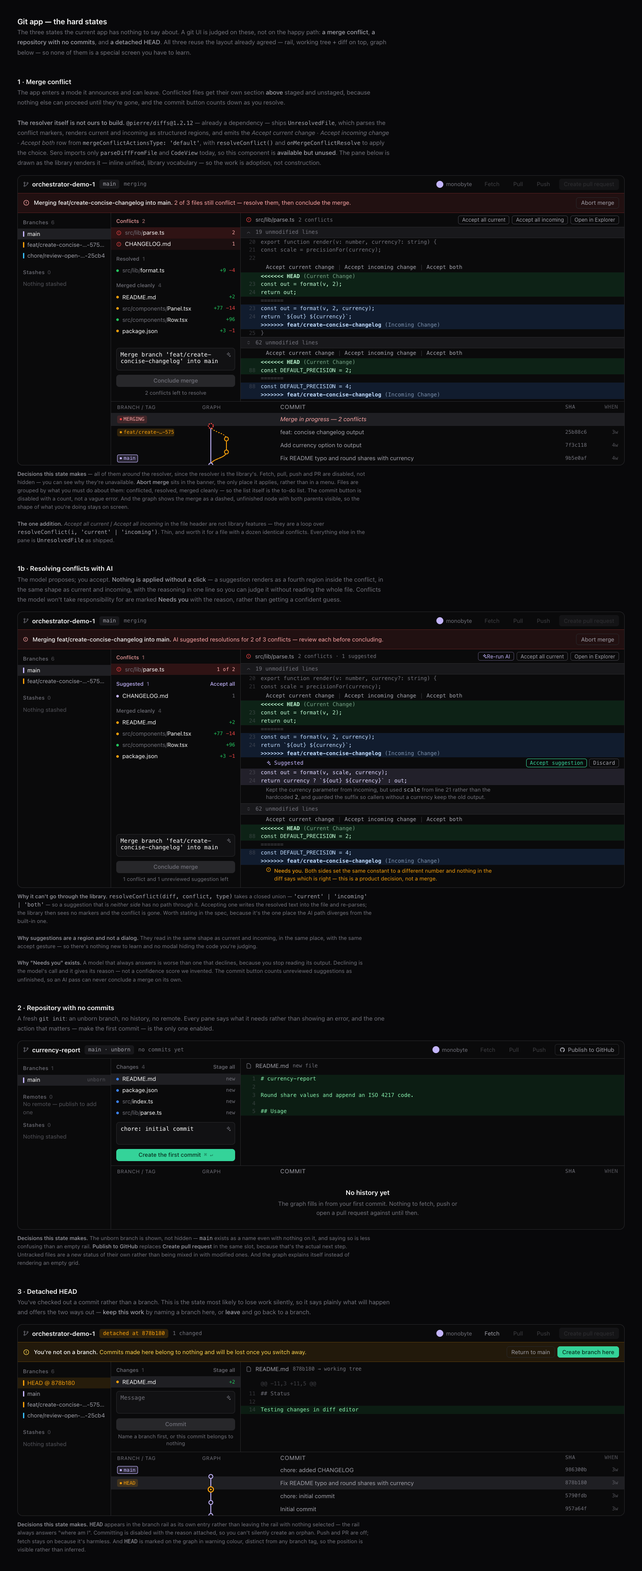
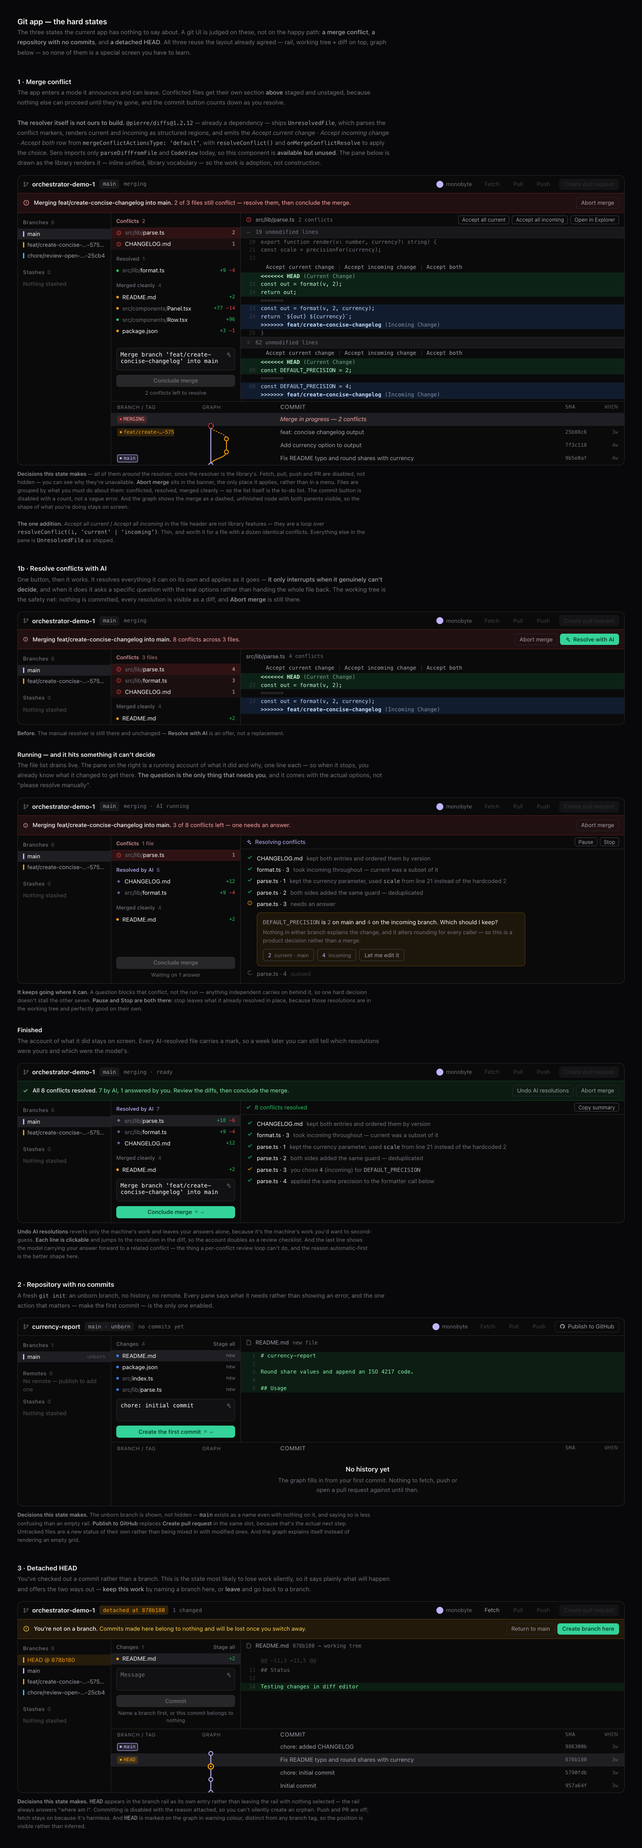
refactor(prototype): AI conflict resolution runs automatically, asks only when stuck (#302)

Changed region(s): [[0.0311, 0.0, 0.9946, 0.9983], [0.8703, 0.9359, 0.9014, 0.9671]]

diff --git a/docs/prototypes/git-ux/git-states.html b/docs/prototypes/git-ux/git-states.html
@@ -151,6 +151,36 @@ svg{flex:0 0 auto}
 .mini.ai:hover{background:color-mix(in srgb,var(--brand-secondary) 14%,transparent)}
 .mini.go{border-color:var(--brand-primary);color:var(--brand-primary)}
 .dot.s{background:var(--brand-secondary)}
+.runwrap{flex:1;min-width:0;display:flex;flex-direction:column;border-left:1px solid var(--border-subtle)}
+.runbar{height:32px;display:flex;align-items:center;gap:8px;padding:0 12px;flex:0 0 auto;
+  font-size:0.83rem;color:var(--brand-secondary);border-bottom:1px solid var(--border-subtle)}
+.runbar .r{margin-left:auto;display:flex;gap:6px}
+.log{padding:8px 0;font-size:0.83rem}
+.logrow{display:flex;align-items:flex-start;gap:9px;padding:4px 14px;line-height:1.15rem}
+.logrow .ic{width:14px;flex:0 0 14px;display:flex;justify-content:center;padding-top:1px}
+.logrow .what{color:var(--text-primary);flex:0 0 auto}
+.logrow .why{color:var(--text-muted);min-width:0}
+.logrow.done .ic{color:var(--status-success)}
+.logrow.ask .ic{color:var(--status-warning)}
+.logrow.pending{opacity:.45}
+.qbox{margin:6px 14px 4px 37px;padding:11px 13px;border-radius:9px;
+  background:color-mix(in srgb,var(--status-warning) 8%,transparent);
+  border:1px solid color-mix(in srgb,var(--status-warning) 26%,transparent);max-width:74ch}
+.qbox .qt{font-size:0.85rem;line-height:1.3rem;color:var(--text-primary)}
+.qbox .qm{font-size:0.8rem;line-height:1.15rem;color:var(--text-muted);margin-top:5px;font-family:-apple-system,system-ui,sans-serif}
+.qopts{display:flex;gap:7px;margin-top:10px;flex-wrap:wrap}
+.qopt{display:inline-flex;align-items:center;gap:7px;height:28px;padding:0 11px;border-radius:7px;
+  border:1px solid var(--border-default);font-size:0.82rem;color:var(--text-primary);cursor:pointer}
+.qopt:hover{background:var(--bg-elevated)}
+.qopt .code{font:0.78rem var(--mono);color:var(--brand-secondary)}
+.qopt .from{font-size:0.76rem;color:var(--text-muted)}
+.qopt.plain{color:var(--text-secondary)}
+.spin{animation:spin 1s linear infinite;transform-origin:50% 50%}
+@keyframes spin{to{transform:rotate(360deg)}}
+.banner.ok{background:color-mix(in srgb,var(--status-success) 9%,transparent);
+  border-top:1px solid color-mix(in srgb,var(--status-success) 24%,transparent);
+  border-bottom:1px solid color-mix(in srgb,var(--status-success) 24%,transparent);color:#86efac}
+.sparkmark{color:var(--brand-secondary);display:flex;flex:0 0 auto}
 .rest{flex:1;min-height:0;overflow:hidden}
 
 /* graph strip */
@@ -352,12 +382,12 @@ file with a dozen identical conflicts. Everything else in the pane is <code>Unre
 </p>
 
 
-<h2>1b · Resolving conflicts with AI</h2>
+<h2>1b · Resolve conflicts with AI</h2>
 <p class="note">
-The model proposes; you accept. <b>Nothing is applied without a click</b> — a suggestion renders as a fourth
-region inside the conflict, in the same shape as current and incoming, with the reasoning in one line so you can
-judge it without reading the whole file. Conflicts the model won't take responsibility for are marked
-<b>Needs you</b> with the reason, rather than getting a confident guess.
+One button, then it works. It resolves everything it can on its own and applies as it goes —
+<b>it only interrupts when it genuinely can't decide</b>, and when it does it asks a specific question with the
+real options rather than handing the whole file back. The working tree is the safety net: nothing is committed,
+every resolution is visible as a diff, and <b>Abort merge</b> is still there.
 </p>
 
 <div class="app">
@@ -369,13 +399,14 @@ judge it without reading the whole file. Conflicts the model won't take responsi
     <span class="tb off">Fetch</span><span class="tb off">Pull</span><span class="tb off">Push</span>
     <span class="tb off" style="background:var(--bg-muted);color:var(--text-muted)">Create pull request</span>
   </div>
-
   <div class="banner conflict">
     <svg width="12" height="12" viewBox="0 0 24 24" fill="none" stroke="currentColor" stroke-width="2.2" stroke-linecap="round"><path d="M12 8v5M12 16.5h.01"/><circle cx="12" cy="12" r="9"/></svg>
-    <span><span class="t">Merging feat/create-concise-changelog into main.</span> AI suggested resolutions for 2 of 3 conflicts — review each before concluding.</span>
-    <div class="r"><span class="tb line">Abort merge</span></div>
+    <span><span class="t">Merging feat/create-concise-changelog into main.</span> 8 conflicts across 3 files.</span>
+    <div class="r">
+      <span class="tb line">Abort merge</span>
+      <span class="tb solid"><svg width="13" height="13" viewBox="0 0 24 24" fill="none" stroke="currentColor" stroke-width="1.8" stroke-linecap="round" stroke-linejoin="round"><path d="M12 3l1.9 4.6L18.5 9.5 13.9 11.4 12 16l-1.9-4.6L5.5 9.5l4.6-1.9z"/><path d="M18.5 15.5l.8 2 2 .8-2 .8-.8 2-.8-2-2-.8 2-.8z"/></svg> Resolve with AI</span>
+    </div>
   </div>
-
   <div class="body">
     <div class="rail">
       <div class="grp">Branches <span class="n">6</span></div>
@@ -385,90 +416,183 @@ judge it without reading the whole file. Conflicts the model won't take responsi
       <div class="empty">Nothing stashed</div>
     </div>
     <div class="vhair"></div>
-
     <div class="main">
-      <div class="detail" style="height:392px">
+      <div class="detail" style="height:196px">
         <div class="files">
-          <div class="sec bad">Conflicts <span class="n">1</span></div>
-          <div class="frow bad on"><span class="warnico"><svg width="12" height="12" viewBox="0 0 24 24" fill="none" stroke="currentColor" stroke-width="2.2" stroke-linecap="round"><path d="M12 8v5M12 16.5h.01"/><circle cx="12" cy="12" r="9"/></svg></span><span class="fn"><span class="dir">src/lib/</span>parse.ts</span><span class="st bad">1 of 2</span></div>
-
-          <div class="sec" style="padding-top:11px;color:var(--brand-secondary)">Suggested <span class="n">1</span><span class="act" style="color:var(--brand-secondary)">Accept all</span></div>
-          <div class="frow"><span class="dot s"></span><span class="fn">CHANGELOG.md</span><span class="st">1</span></div>
-
+          <div class="sec bad">Conflicts <span class="n">3 files</span></div>
+          <div class="frow bad on"><span class="warnico"><svg width="12" height="12" viewBox="0 0 24 24" fill="none" stroke="currentColor" stroke-width="2.2" stroke-linecap="round"><path d="M12 8v5M12 16.5h.01"/><circle cx="12" cy="12" r="9"/></svg></span><span class="fn"><span class="dir">src/lib/</span>parse.ts</span><span class="st bad">4</span></div>
+          <div class="frow bad"><span class="warnico"><svg width="12" height="12" viewBox="0 0 24 24" fill="none" stroke="currentColor" stroke-width="2.2" stroke-linecap="round"><path d="M12 8v5M12 16.5h.01"/><circle cx="12" cy="12" r="9"/></svg></span><span class="fn"><span class="dir">src/lib/</span>format.ts</span><span class="st bad">3</span></div>
+          <div class="frow bad"><span class="warnico"><svg width="12" height="12" viewBox="0 0 24 24" fill="none" stroke="currentColor" stroke-width="2.2" stroke-linecap="round"><path d="M12 8v5M12 16.5h.01"/><circle cx="12" cy="12" r="9"/></svg></span><span class="fn">CHANGELOG.md</span><span class="st bad">1</span></div>
           <div class="sec" style="padding-top:11px">Merged cleanly <span class="n">4</span></div>
           <div class="frow"><span class="dot m"></span><span class="fn">README.md</span><span class="st"><span class="p">+2</span></span></div>
-          <div class="frow"><span class="dot m"></span><span class="fn"><span class="dir">src/components/</span>Panel.tsx</span><span class="st"><span class="p">+77</span> <span class="m">−14</span></span></div>
-          <div class="frow"><span class="dot a"></span><span class="fn"><span class="dir">src/components/</span>Row.tsx</span><span class="st"><span class="p">+96</span></span></div>
-          <div class="frow"><span class="dot m"></span><span class="fn">package.json</span><span class="st"><span class="p">+3</span> <span class="m">−1</span></span></div>
-
-          <div class="cbox">
-            <div class="mw">
-              <textarea class="mi">Merge branch 'feat/create-concise-changelog' into main</textarea>
-              <span class="msgai"><svg width="12" height="12" viewBox="0 0 24 24" fill="none" stroke="currentColor" stroke-width="1.8" stroke-linecap="round" stroke-linejoin="round"><path d="M12 3l1.9 4.6L18.5 9.5 13.9 11.4 12 16l-1.9-4.6L5.5 9.5l4.6-1.9z"/><path d="M18.5 15.5l.8 2 2 .8-2 .8-.8 2-.8-2-2-.8 2-.8z"/></svg></span>
-            </div>
-            <div class="cbtn off">Conclude merge</div>
-            <div class="hint">1 conflict and 1 unreviewed suggestion left</div>
-          </div>
         </div>
-
         <div class="diff">
-          <div class="dbar">
-            <span class="warnico"><svg width="12" height="12" viewBox="0 0 24 24" fill="none" stroke="currentColor" stroke-width="2.2" stroke-linecap="round"><path d="M12 8v5M12 16.5h.01"/><circle cx="12" cy="12" r="9"/></svg></span>
-            src/lib/parse.ts <span class="mut">2 conflicts · 1 suggested</span>
-            <div class="r"><span class="mini ai"><svg width="12" height="12" viewBox="0 0 24 24" fill="none" stroke="currentColor" stroke-width="1.8" stroke-linecap="round" stroke-linejoin="round"><path d="M12 3l1.9 4.6L18.5 9.5 13.9 11.4 12 16l-1.9-4.6L5.5 9.5l4.6-1.9z"/><path d="M18.5 15.5l.8 2 2 .8-2 .8-.8 2-.8-2-2-.8 2-.8z"/></svg> Re-run AI</span><span class="mini">Accept all current</span><span class="mini">Open in Explorer</span></div>
-          </div>
-
+          <div class="dbar">src/lib/parse.ts <span class="mut">4 conflicts</span></div>
           <div class="dbody" style="padding-top:0">
-            <div class="collapsed"><svg width="12" height="12" viewBox="0 0 24 24" fill="none" stroke="currentColor" stroke-width="2" stroke-linecap="round"><path d="M6 15l6-6 6 6"/></svg>19 unmodified lines</div>
-            <div class="dl"><span class="ln">20</span><span class="tx">export function render(v: number, currency?: string) {</span></div>
-            <div class="dl"><span class="ln">21</span><span class="tx">  const scale = precisionFor(currency);</span></div>
-
             <div class="actionrow"><a>Accept current change</a><span class="sep">|</span><a>Accept incoming change</a><span class="sep">|</span><a>Accept both</a></div>
             <div class="dl curr mark"><span class="ln"></span><span class="tx">&lt;&lt;&lt;&lt;&lt;&lt;&lt; HEAD<span class="who">(Current Change)</span></span></div>
             <div class="dl curr"><span class="ln">23</span><span class="tx">  const out = format(v, 2);</span></div>
-            <div class="dl curr"><span class="ln">24</span><span class="tx">  return out;</span></div>
             <div class="dl sepmark"><span class="ln"></span><span class="tx">=======</span></div>
             <div class="dl inc"><span class="ln">23</span><span class="tx">  const out = format(v, 2, currency);</span></div>
-            <div class="dl inc"><span class="ln">24</span><span class="tx">  return `${out} ${currency}`;</span></div>
             <div class="dl inc mark"><span class="ln"></span><span class="tx">&gt;&gt;&gt;&gt;&gt;&gt;&gt; feat/create-concise-changelog<span class="who">(Incoming Change)</span></span></div>
-
-            <div class="sugghead"><svg width="12" height="12" viewBox="0 0 24 24" fill="none" stroke="currentColor" stroke-width="1.8" stroke-linecap="round" stroke-linejoin="round"><path d="M12 3l1.9 4.6L18.5 9.5 13.9 11.4 12 16l-1.9-4.6L5.5 9.5l4.6-1.9z"/><path d="M18.5 15.5l.8 2 2 .8-2 .8-.8 2-.8-2-2-.8 2-.8z"/></svg> Suggested
-              <div class="r"><span class="mini go">Accept suggestion</span><span class="mini">Discard</span></div>
-            </div>
-            <div class="dl sugg"><span class="ln">23</span><span class="tx">  const out = format(v, scale, currency);</span></div>
-            <div class="dl sugg"><span class="ln">24</span><span class="tx">  return currency ? `${out} ${currency}` : out;</span></div>
-            <div class="rationale">Kept the currency parameter from incoming, but used <code>scale</code> from line 21 rather than the hardcoded <code>2</code>, and guarded the suffix so callers without a currency keep the old output.</div>
-
-            <div class="collapsed"><svg width="12" height="12" viewBox="0 0 24 24" fill="none" stroke="currentColor" stroke-width="2" stroke-linecap="round"><path d="M8 9l4-4 4 4M8 15l4 4 4-4"/></svg>62 unmodified lines</div>
-
-            <div class="actionrow"><a>Accept current change</a><span class="sep">|</span><a>Accept incoming change</a><span class="sep">|</span><a>Accept both</a></div>
-            <div class="dl curr mark"><span class="ln"></span><span class="tx">&lt;&lt;&lt;&lt;&lt;&lt;&lt; HEAD<span class="who">(Current Change)</span></span></div>
-            <div class="dl curr"><span class="ln">88</span><span class="tx">const DEFAULT_PRECISION = 2;</span></div>
-            <div class="dl sepmark"><span class="ln"></span><span class="tx">=======</span></div>
-            <div class="dl inc"><span class="ln">88</span><span class="tx">const DEFAULT_PRECISION = 4;</span></div>
-            <div class="dl inc mark"><span class="ln"></span><span class="tx">&gt;&gt;&gt;&gt;&gt;&gt;&gt; feat/create-concise-changelog<span class="who">(Incoming Change)</span></span></div>
-            <div class="needsyou"><svg width="12" height="12" viewBox="0 0 24 24" fill="none" stroke="currentColor" stroke-width="2.2" stroke-linecap="round"><path d="M12 8v5M12 16.5h.01"/><circle cx="12" cy="12" r="9"/></svg> <span><b style="color:var(--status-warning)">Needs you.</b> Both sides set the same constant to a different number and nothing in the diff says which is right — this is a product decision, not a merge.</span></div>
           </div>
-          <div class="rest"></div>
         </div>
       </div>
     </div>
   </div>
 </div>
+<p class="spec"><b>Before.</b> The manual resolver is still there and unchanged — <b>Resolve with AI</b> is an
+offer, not a replacement.</p>
 
+<h3 style="font-size:0.88rem;font-weight:600;margin:30px 0 4px">Running — and it hits something it can't decide</h3>
+<p class="note">
+The file list drains live. The pane on the right is a running account of what it did and why, one line each — so
+when it stops, you already know what it changed to get there. <b>The question is the only thing that needs you</b>,
+and it comes with the actual options, not "please resolve manually".
+</p>
+
+<div class="app">
+  <div class="topbar">
+    <div class="repo"><svg width="14" height="14" viewBox="0 0 24 24" fill="none" stroke="var(--text-muted)" stroke-width="2" stroke-linecap="round"><circle cx="6" cy="6" r="2.5"/><circle cx="6" cy="18" r="2.5"/><path d="M6 8.5v7"/><circle cx="18" cy="7" r="2.5"/><path d="M18 9.5c0 5-6 3.5-6 8.5"/></svg> orchestrator-demo-1</div>
+    <span class="bchip">main</span><span class="sync">merging · AI running</span>
+    <span style="flex:1"></span>
+    <span class="ghchip"><span class="av"></span>monobyte</span>
+    <span class="tb off">Fetch</span><span class="tb off">Pull</span><span class="tb off">Push</span>
+    <span class="tb off" style="background:var(--bg-muted);color:var(--text-muted)">Create pull request</span>
+  </div>
+  <div class="banner conflict">
+    <svg width="12" height="12" viewBox="0 0 24 24" fill="none" stroke="currentColor" stroke-width="2.2" stroke-linecap="round"><path d="M12 8v5M12 16.5h.01"/><circle cx="12" cy="12" r="9"/></svg>
+    <span><span class="t">Merging feat/create-concise-changelog into main.</span> 3 of 8 conflicts left — one needs an answer.</span>
+    <div class="r"><span class="tb line">Abort merge</span></div>
+  </div>
+  <div class="body">
+    <div class="rail">
+      <div class="grp">Branches <span class="n">6</span></div>
+      <div class="rrow on"><span class="sw" style="background:var(--l0)"></span><span class="nm">main</span></div>
+      <div class="rrow"><span class="sw" style="background:var(--l1)"></span><span class="nm">feat/create-concise-…-57596</span></div>
+      <div class="grp" style="padding-top:16px">Stashes <span class="n">0</span></div>
+      <div class="empty">Nothing stashed</div>
+    </div>
+    <div class="vhair"></div>
+    <div class="main">
+      <div class="detail" style="height:352px">
+        <div class="files">
+          <div class="sec bad">Conflicts <span class="n">1 file</span></div>
+          <div class="frow bad on"><span class="warnico"><svg width="12" height="12" viewBox="0 0 24 24" fill="none" stroke="currentColor" stroke-width="2.2" stroke-linecap="round"><path d="M12 8v5M12 16.5h.01"/><circle cx="12" cy="12" r="9"/></svg></span><span class="fn"><span class="dir">src/lib/</span>parse.ts</span><span class="st bad">1</span></div>
+          <div class="sec" style="padding-top:11px;color:var(--brand-secondary)">Resolved by AI <span class="n">5</span></div>
+          <div class="frow"><span class="sparkmark"><svg width="11" height="11" viewBox="0 0 24 24" fill="none" stroke="currentColor" stroke-width="1.8" stroke-linecap="round" stroke-linejoin="round"><path d="M12 3l1.9 4.6L18.5 9.5 13.9 11.4 12 16l-1.9-4.6L5.5 9.5l4.6-1.9z"/></svg></span><span class="fn">CHANGELOG.md</span><span class="st"><span class="p">+12</span></span></div>
+          <div class="frow"><span class="sparkmark"><svg width="11" height="11" viewBox="0 0 24 24" fill="none" stroke="currentColor" stroke-width="1.8" stroke-linecap="round" stroke-linejoin="round"><path d="M12 3l1.9 4.6L18.5 9.5 13.9 11.4 12 16l-1.9-4.6L5.5 9.5l4.6-1.9z"/></svg></span><span class="fn"><span class="dir">src/lib/</span>format.ts</span><span class="st"><span class="p">+9</span> <span class="m">−4</span></span></div>
+          <div class="sec" style="padding-top:11px">Merged cleanly <span class="n">4</span></div>
+          <div class="frow"><span class="dot m"></span><span class="fn">README.md</span><span class="st"><span class="p">+2</span></span></div>
+          <div class="cbox">
+            <div class="cbtn off">Conclude merge</div>
+            <div class="hint">Waiting on 1 answer</div>
+          </div>
+        </div>
+
+        <div class="runwrap">
+          <div class="runbar"><svg width="13" height="13" viewBox="0 0 24 24" fill="none" stroke="currentColor" stroke-width="1.8" stroke-linecap="round" stroke-linejoin="round"><path d="M12 3l1.9 4.6L18.5 9.5 13.9 11.4 12 16l-1.9-4.6L5.5 9.5l4.6-1.9z"/><path d="M18.5 15.5l.8 2 2 .8-2 .8-.8 2-.8-2-2-.8 2-.8z"/></svg> Resolving conflicts
+            <div class="r"><span class="mini">Pause</span><span class="mini">Stop</span></div>
+          </div>
+          <div class="log">
+            <div class="logrow done"><span class="ic"><svg width="12" height="12" viewBox="0 0 24 24" fill="none" stroke="currentColor" stroke-width="2.6" stroke-linecap="round"><path d="M4 12l5 5L20 6"/></svg></span><span class="what">CHANGELOG.md</span><span class="why">kept both entries and ordered them by version</span></div>
+            <div class="logrow done"><span class="ic"><svg width="12" height="12" viewBox="0 0 24 24" fill="none" stroke="currentColor" stroke-width="2.6" stroke-linecap="round"><path d="M4 12l5 5L20 6"/></svg></span><span class="what">format.ts · 3</span><span class="why">took incoming throughout — current was a subset of it</span></div>
+            <div class="logrow done"><span class="ic"><svg width="12" height="12" viewBox="0 0 24 24" fill="none" stroke="currentColor" stroke-width="2.6" stroke-linecap="round"><path d="M4 12l5 5L20 6"/></svg></span><span class="what">parse.ts · 1</span><span class="why">kept the currency parameter, used <code>scale</code> from line 21 instead of the hardcoded 2</span></div>
+            <div class="logrow done"><span class="ic"><svg width="12" height="12" viewBox="0 0 24 24" fill="none" stroke="currentColor" stroke-width="2.6" stroke-linecap="round"><path d="M4 12l5 5L20 6"/></svg></span><span class="what">parse.ts · 2</span><span class="why">both sides added the same guard — deduplicated</span></div>
+
+            <div class="logrow ask"><span class="ic"><svg width="12" height="12" viewBox="0 0 24 24" fill="none" stroke="currentColor" stroke-width="2.2" stroke-linecap="round"><path d="M12 8v5M12 16.5h.01"/><circle cx="12" cy="12" r="9"/></svg></span><span class="what">parse.ts · 3</span><span class="why">needs an answer</span></div>
+            <div class="qbox">
+              <div class="qt"><code>DEFAULT_PRECISION</code> is <code>2</code> on main and <code>4</code> on the incoming branch. Which should I keep?</div>
+              <div class="qm">Nothing in either branch explains the change, and it alters rounding for every caller — so this is a product decision rather than a merge.</div>
+              <div class="qopts">
+                <span class="qopt"><span class="code">2</span><span class="from">current · main</span></span>
+                <span class="qopt"><span class="code">4</span><span class="from">incoming</span></span>
+                <span class="qopt plain">Let me edit it</span>
+              </div>
+            </div>
+
+            <div class="logrow pending"><span class="ic"><svg class="spin" width="12" height="12" viewBox="0 0 24 24" fill="none" stroke="currentColor" stroke-width="2.2" stroke-linecap="round"><path d="M12 3a9 9 0 1 0 9 9"/></svg></span><span class="what">parse.ts · 4</span><span class="why">queued</span></div>
+          </div>
+        </div>
+      </div>
+    </div>
+  </div>
+</div>
 <p class="spec">
-<b>Why it can't go through the library.</b> <code>resolveConflict(diff, conflict, type)</code> takes a closed union
-— <code>'current' | 'incoming' | 'both'</code> — so a suggestion that is <i>neither side</i> has no path through
-it. Accepting one writes the resolved text into the file and re-parses; the library then sees no markers and the
-conflict is gone. Worth stating in the spec, because it's the one place the AI path diverges from the built-in one.
-<br><br>
-<b>Why suggestions are a region and not a dialog.</b> They read in the same shape as current and incoming, in the
-same place, with the same accept gesture — so there's nothing new to learn and no modal hiding the code you're
-judging.
-<br><br>
-<b>Why "Needs you" exists.</b> A model that always answers is worse than one that declines, because you stop
-reading its output. Declining is the model's call and it gives its reason — not a confidence score we invented.
-The commit button counts unreviewed suggestions as unfinished, so an AI pass can never conclude a merge on its own.
+<b>It keeps going where it can.</b> A question blocks that conflict, not the run — anything independent carries on
+behind it, so one hard decision doesn't stall the other seven.
+<b>Pause and Stop are both there:</b> stop leaves what it already resolved in place, because those resolutions are
+in the working tree and perfectly good on their own.
+</p>
+
+<h3 style="font-size:0.88rem;font-weight:600;margin:30px 0 4px">Finished</h3>
+<p class="note">
+The account of what it did stays on screen. Every AI-resolved file carries a mark, so a week later you can still
+tell which resolutions were yours and which were the model's.
+</p>
+
+<div class="app">
+  <div class="topbar">
+    <div class="repo"><svg width="14" height="14" viewBox="0 0 24 24" fill="none" stroke="var(--text-muted)" stroke-width="2" stroke-linecap="round"><circle cx="6" cy="6" r="2.5"/><circle cx="6" cy="18" r="2.5"/><path d="M6 8.5v7"/><circle cx="18" cy="7" r="2.5"/><path d="M18 9.5c0 5-6 3.5-6 8.5"/></svg> orchestrator-demo-1</div>
+    <span class="bchip">main</span><span class="sync">merging · ready</span>
+    <span style="flex:1"></span>
+    <span class="ghchip"><span class="av"></span>monobyte</span>
+    <span class="tb off">Fetch</span><span class="tb off">Pull</span><span class="tb off">Push</span>
+    <span class="tb off" style="background:var(--bg-muted);color:var(--text-muted)">Create pull request</span>
+  </div>
+  <div class="banner ok">
+    <svg width="12" height="12" viewBox="0 0 24 24" fill="none" stroke="currentColor" stroke-width="2.6" stroke-linecap="round"><path d="M4 12l5 5L20 6"/></svg>
+    <span><span class="t">All 8 conflicts resolved.</span> 7 by AI, 1 answered by you. Review the diffs, then conclude the merge.</span>
+    <div class="r"><span class="tb line">Undo AI resolutions</span><span class="tb line">Abort merge</span></div>
+  </div>
+  <div class="body">
+    <div class="rail">
+      <div class="grp">Branches <span class="n">6</span></div>
+      <div class="rrow on"><span class="sw" style="background:var(--l0)"></span><span class="nm">main</span></div>
+      <div class="rrow"><span class="sw" style="background:var(--l1)"></span><span class="nm">feat/create-concise-…-57596</span></div>
+      <div class="grp" style="padding-top:16px">Stashes <span class="n">0</span></div>
+      <div class="empty">Nothing stashed</div>
+    </div>
+    <div class="vhair"></div>
+    <div class="main">
+      <div class="detail" style="height:250px">
+        <div class="files">
+          <div class="sec" style="color:var(--brand-secondary)">Resolved by AI <span class="n">7</span></div>
+          <div class="frow on"><span class="sparkmark"><svg width="11" height="11" viewBox="0 0 24 24" fill="none" stroke="currentColor" stroke-width="1.8" stroke-linecap="round" stroke-linejoin="round"><path d="M12 3l1.9 4.6L18.5 9.5 13.9 11.4 12 16l-1.9-4.6L5.5 9.5l4.6-1.9z"/></svg></span><span class="fn"><span class="dir">src/lib/</span>parse.ts</span><span class="st"><span class="p">+18</span> <span class="m">−6</span></span></div>
+          <div class="frow"><span class="sparkmark"><svg width="11" height="11" viewBox="0 0 24 24" fill="none" stroke="currentColor" stroke-width="1.8" stroke-linecap="round" stroke-linejoin="round"><path d="M12 3l1.9 4.6L18.5 9.5 13.9 11.4 12 16l-1.9-4.6L5.5 9.5l4.6-1.9z"/></svg></span><span class="fn"><span class="dir">src/lib/</span>format.ts</span><span class="st"><span class="p">+9</span> <span class="m">−4</span></span></div>
+          <div class="frow"><span class="sparkmark"><svg width="11" height="11" viewBox="0 0 24 24" fill="none" stroke="currentColor" stroke-width="1.8" stroke-linecap="round" stroke-linejoin="round"><path d="M12 3l1.9 4.6L18.5 9.5 13.9 11.4 12 16l-1.9-4.6L5.5 9.5l4.6-1.9z"/></svg></span><span class="fn">CHANGELOG.md</span><span class="st"><span class="p">+12</span></span></div>
+          <div class="sec" style="padding-top:11px">Merged cleanly <span class="n">4</span></div>
+          <div class="frow"><span class="dot m"></span><span class="fn">README.md</span><span class="st"><span class="p">+2</span></span></div>
+          <div class="cbox">
+            <div class="mw">
+              <textarea class="mi">Merge branch 'feat/create-concise-changelog' into main</textarea>
+              <span class="msgai"><svg width="13" height="13" viewBox="0 0 24 24" fill="none" stroke="currentColor" stroke-width="1.8" stroke-linecap="round" stroke-linejoin="round"><path d="M12 3l1.9 4.6L18.5 9.5 13.9 11.4 12 16l-1.9-4.6L5.5 9.5l4.6-1.9z"/><path d="M18.5 15.5l.8 2 2 .8-2 .8-.8 2-.8-2-2-.8 2-.8z"/></svg></span>
+            </div>
+            <div class="cbtn">Conclude merge <span class="kbd">⌘ ↵</span></div>
+          </div>
+        </div>
+        <div class="runwrap">
+          <div class="runbar" style="color:var(--status-success)"><svg width="12" height="12" viewBox="0 0 24 24" fill="none" stroke="currentColor" stroke-width="2.6" stroke-linecap="round"><path d="M4 12l5 5L20 6"/></svg> 8 conflicts resolved
+            <div class="r"><span class="mini">Copy summary</span></div>
+          </div>
+          <div class="log">
+            <div class="logrow done"><span class="ic"><svg width="12" height="12" viewBox="0 0 24 24" fill="none" stroke="currentColor" stroke-width="2.6" stroke-linecap="round"><path d="M4 12l5 5L20 6"/></svg></span><span class="what">CHANGELOG.md</span><span class="why">kept both entries and ordered them by version</span></div>
+            <div class="logrow done"><span class="ic"><svg width="12" height="12" viewBox="0 0 24 24" fill="none" stroke="currentColor" stroke-width="2.6" stroke-linecap="round"><path d="M4 12l5 5L20 6"/></svg></span><span class="what">format.ts · 3</span><span class="why">took incoming throughout — current was a subset of it</span></div>
+            <div class="logrow done"><span class="ic"><svg width="12" height="12" viewBox="0 0 24 24" fill="none" stroke="currentColor" stroke-width="2.6" stroke-linecap="round"><path d="M4 12l5 5L20 6"/></svg></span><span class="what">parse.ts · 1</span><span class="why">kept the currency parameter, used <code>scale</code> from line 21 instead of the hardcoded 2</span></div>
+            <div class="logrow done"><span class="ic"><svg width="12" height="12" viewBox="0 0 24 24" fill="none" stroke="currentColor" stroke-width="2.6" stroke-linecap="round"><path d="M4 12l5 5L20 6"/></svg></span><span class="what">parse.ts · 2</span><span class="why">both sides added the same guard — deduplicated</span></div>
+            <div class="logrow done"><span class="ic" style="color:var(--status-warning)"><svg width="12" height="12" viewBox="0 0 24 24" fill="none" stroke="currentColor" stroke-width="2.6" stroke-linecap="round"><path d="M4 12l5 5L20 6"/></svg></span><span class="what">parse.ts · 3</span><span class="why">you chose <code>4</code> (incoming) for <code>DEFAULT_PRECISION</code></span></div>
+            <div class="logrow done"><span class="ic"><svg width="12" height="12" viewBox="0 0 24 24" fill="none" stroke="currentColor" stroke-width="2.6" stroke-linecap="round"><path d="M4 12l5 5L20 6"/></svg></span><span class="what">parse.ts · 4</span><span class="why">applied the same precision to the formatter call below</span></div>
+          </div>
+        </div>
+      </div>
+    </div>
+  </div>
+</div>
+<p class="spec">
+<b>Undo AI resolutions</b> reverts only the machine's work and leaves your answers alone, because it's the machine's
+work you'd want to second-guess. <b>Each line is clickable</b> and jumps to the resolution in the diff, so the
+account doubles as a review checklist. And the last line shows the model carrying your answer forward to a related
+conflict — the thing a per-conflict review loop can't do, and the reason automatic-first is the better shape here.
 </p>
 
 <!-- ══════════════════════════ 2 · EMPTY REPO ══════════════════════════ -->
